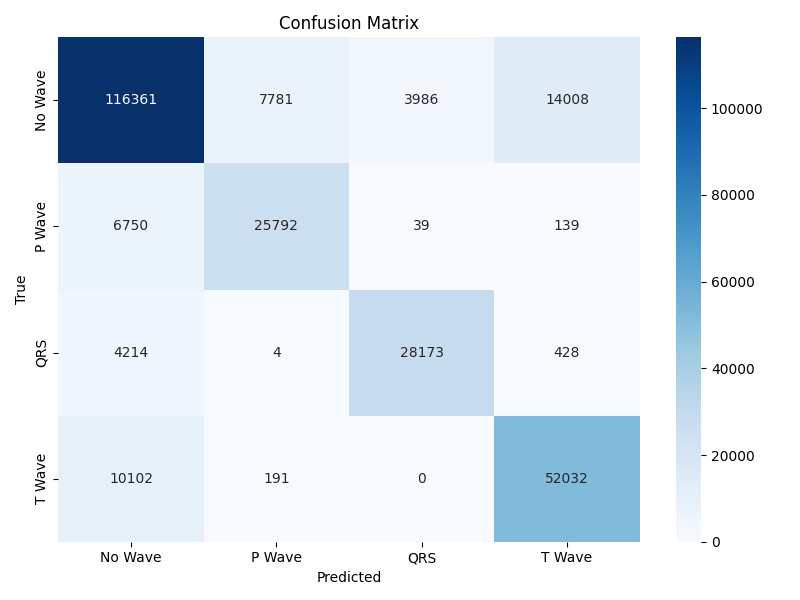
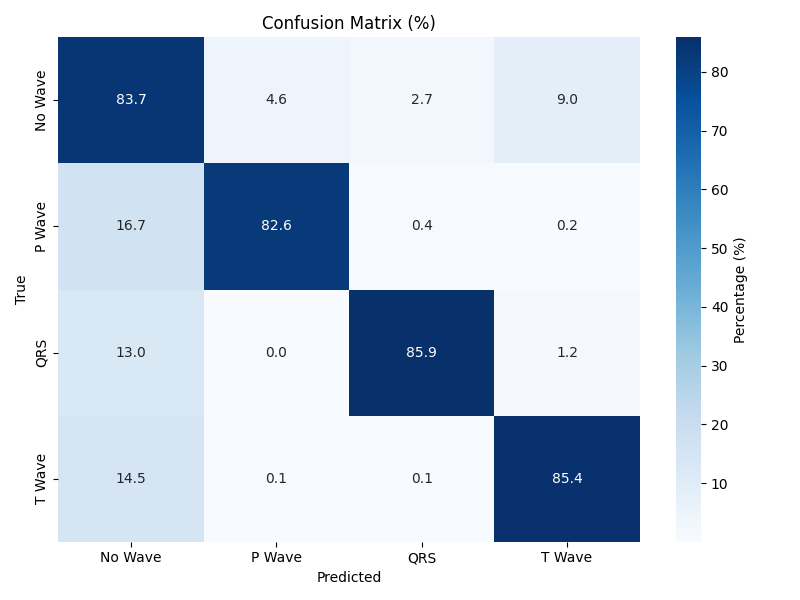
,

diff --git a/evaluate.py b/evaluate.py
@@ -148,10 +148,16 @@ def evaluate(model, dataloader, loss_fn, device, num_classes, output_dir, sample
     print(classification_report(all_labels, all_preds, target_names=[CLASS_NAMES.get(i, f"Class {i}") for i in range(num_classes)], digits=4))
 
     cm = confusion_matrix(all_labels, all_preds, labels=range(num_classes))
+    cm_percent = cm.astype('float') / cm.sum(axis=1, keepdims=True) * 100  # normalize row-wise to percentage
+
     plt.figure(figsize=(8, 6))
-    sns.heatmap(cm, annot=True, fmt='d', cmap='Blues', xticklabels=CLASS_NAMES.values(), yticklabels=CLASS_NAMES.values())
-    plt.title("Confusion Matrix")
-    plt.xlabel("Predicted"); plt.ylabel("True")
+    sns.heatmap(cm_percent, annot=True, fmt='.1f', cmap='Blues',
+                xticklabels=CLASS_NAMES.values(),
+                yticklabels=CLASS_NAMES.values(),
+                cbar_kws={'label': 'Percentage (%)'})
+    plt.title("Confusion Matrix (%)")
+    plt.xlabel("Predicted")
+    plt.ylabel("True")
     plt.tight_layout()
     plt.savefig(os.path.join(output_dir, "confusion_matrix.png"))
     plt.close()
@@ -160,9 +166,9 @@ def evaluate(model, dataloader, loss_fn, device, num_classes, output_dir, sample
 
 def main():
     parser = argparse.ArgumentParser("Evaluate ECG Segmenter")
-    parser.add_argument("--load_dir", type=str, default="MCG_segmentation/checkpoints/best")
+    parser.add_argument("--load_dir", type=str, default="MCG_segmentation/MCGSegmentator_s/checkpoints/best")
     parser.add_argument("--data_dir_eval", type=str, default="MCG_segmentation/qtdb/processed/val")
-    parser.add_argument("--output_dir", type=str, default="MCG_segmentation/evaluation_results")
+    parser.add_argument("--output_dir", type=str, default="MCG_segmentation/MCGSegmentator_s/evaluation_results")
     parser.add_argument("--eval_batch_size", type=int, default=1)
     parser.add_argument("--num_workers", type=int, default=4)
     parser.add_argument("--plot_sample_index", type=int)
@@ -183,7 +189,7 @@ def main():
         baseline_wander_mag=0.03,
         amplitude_scale_range=0.1,
         max_time_shift=5,
-        augmentation_prob=1.00,
+        augmentation_prob=0.00,
     )
 
     dataloader = DataLoader(dataset, batch_size=args.eval_batch_size, shuffle=True, num_workers=args.num_workers)
